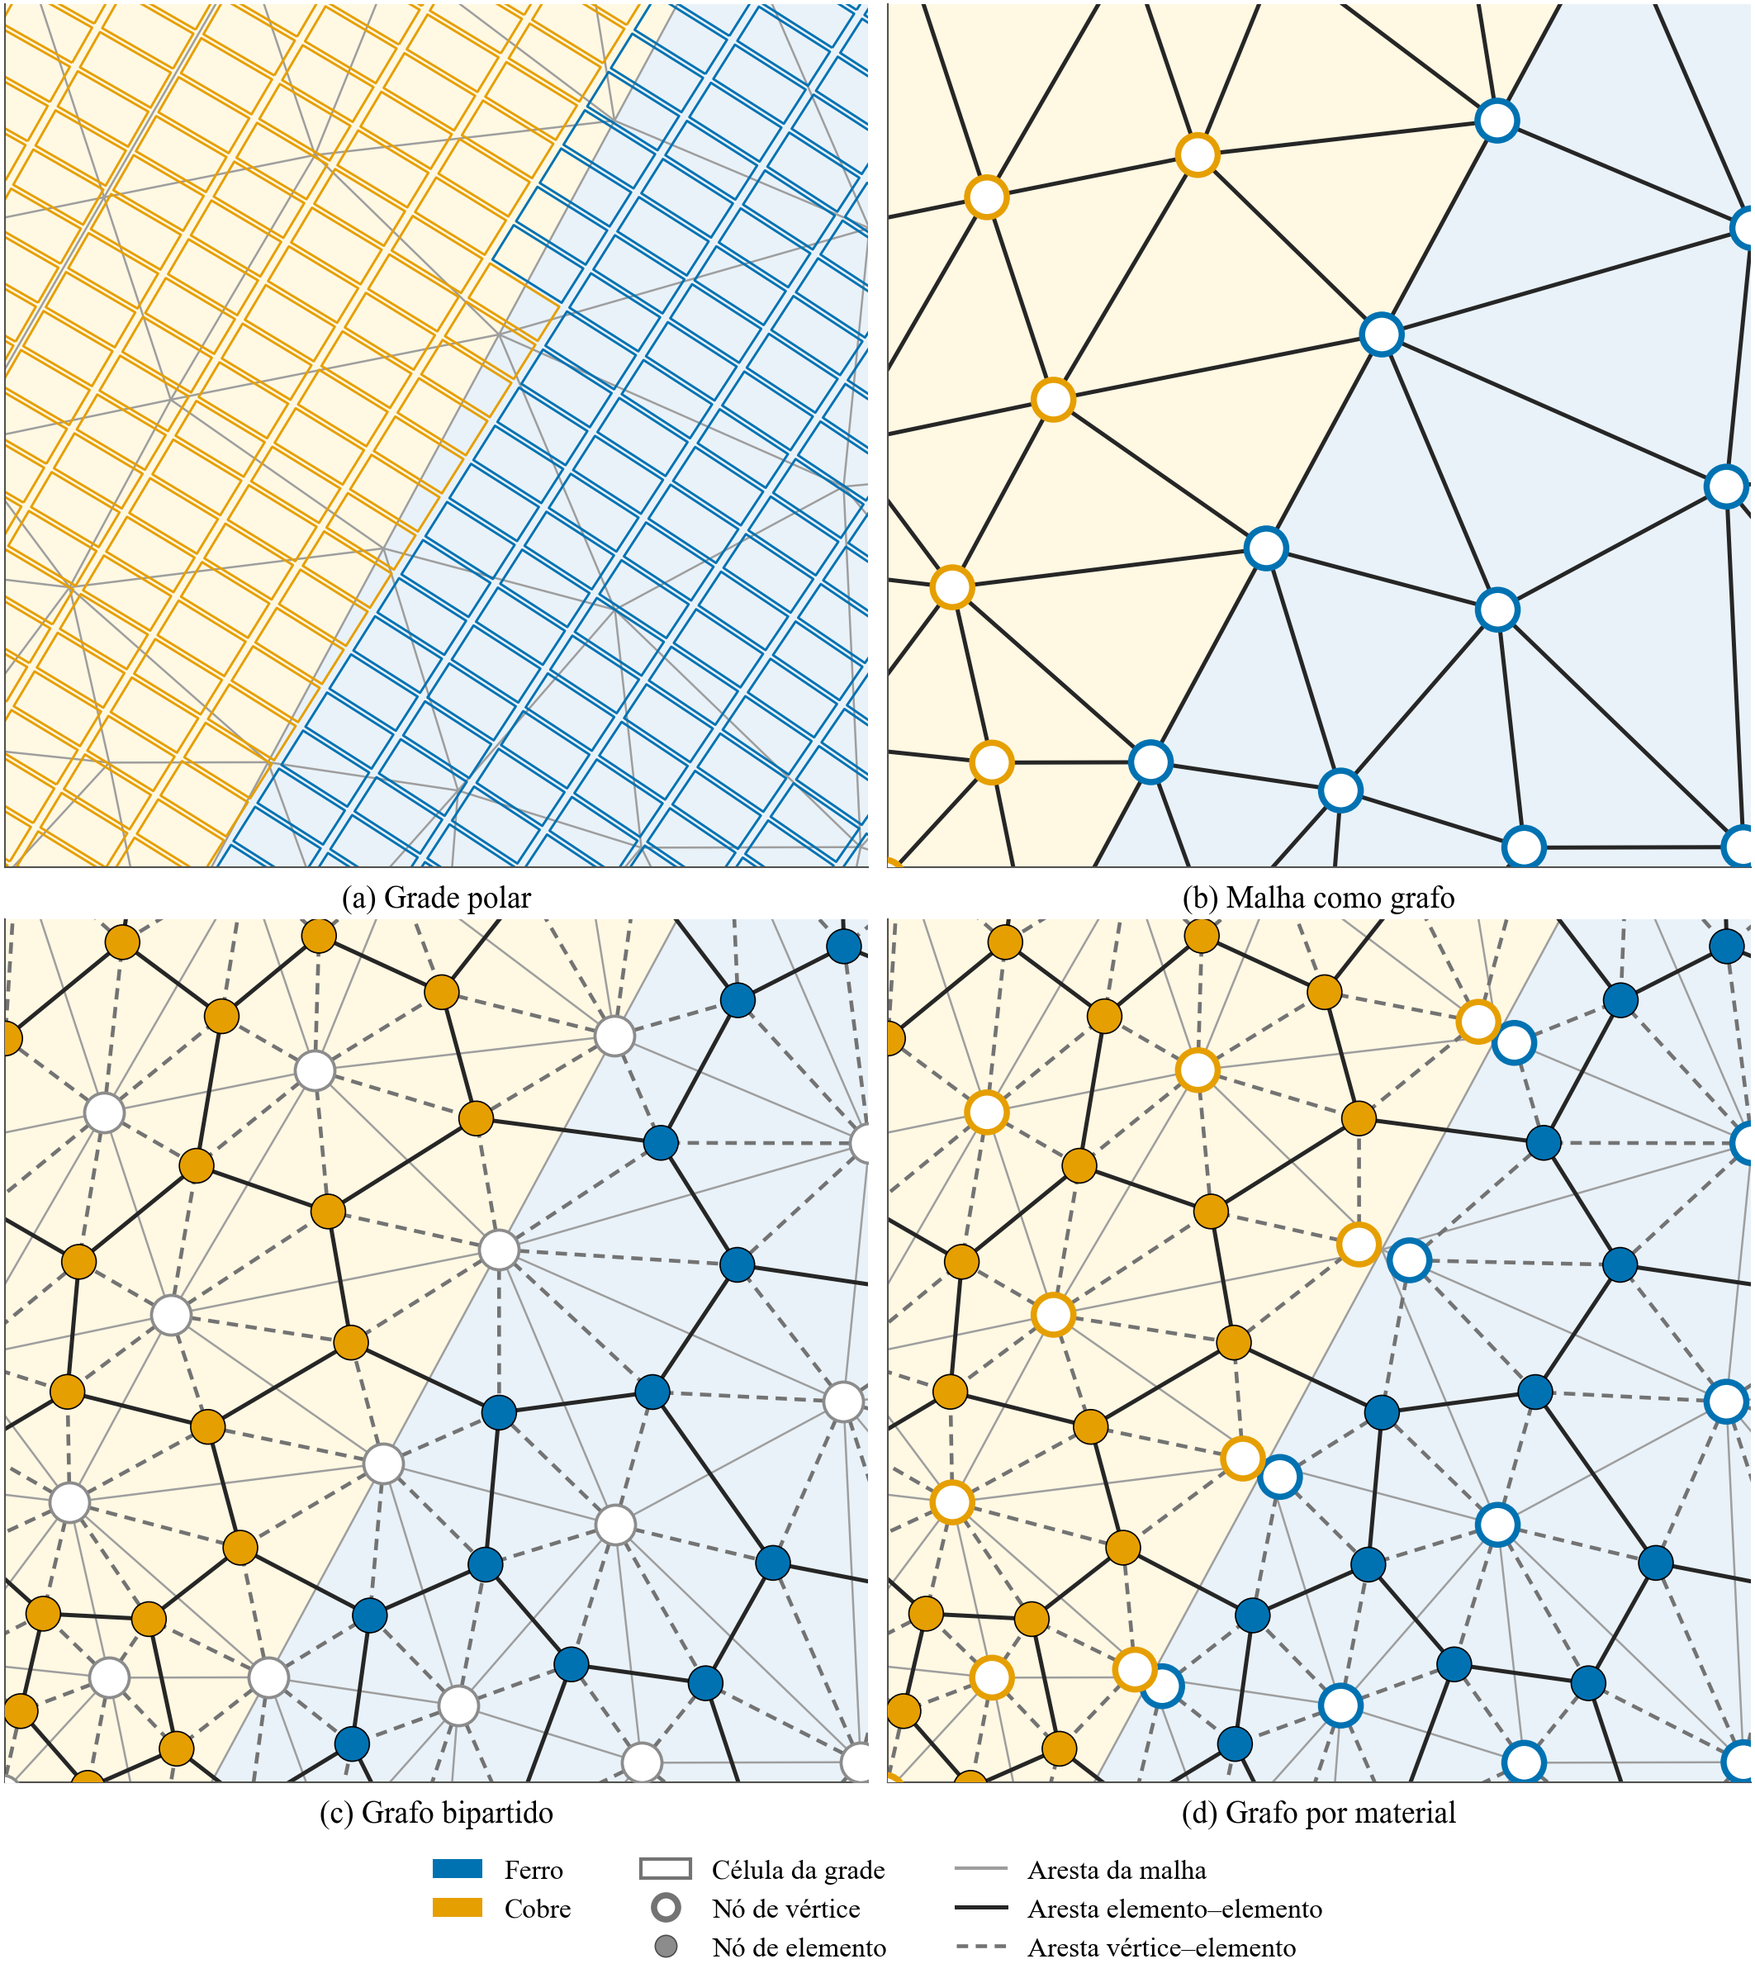
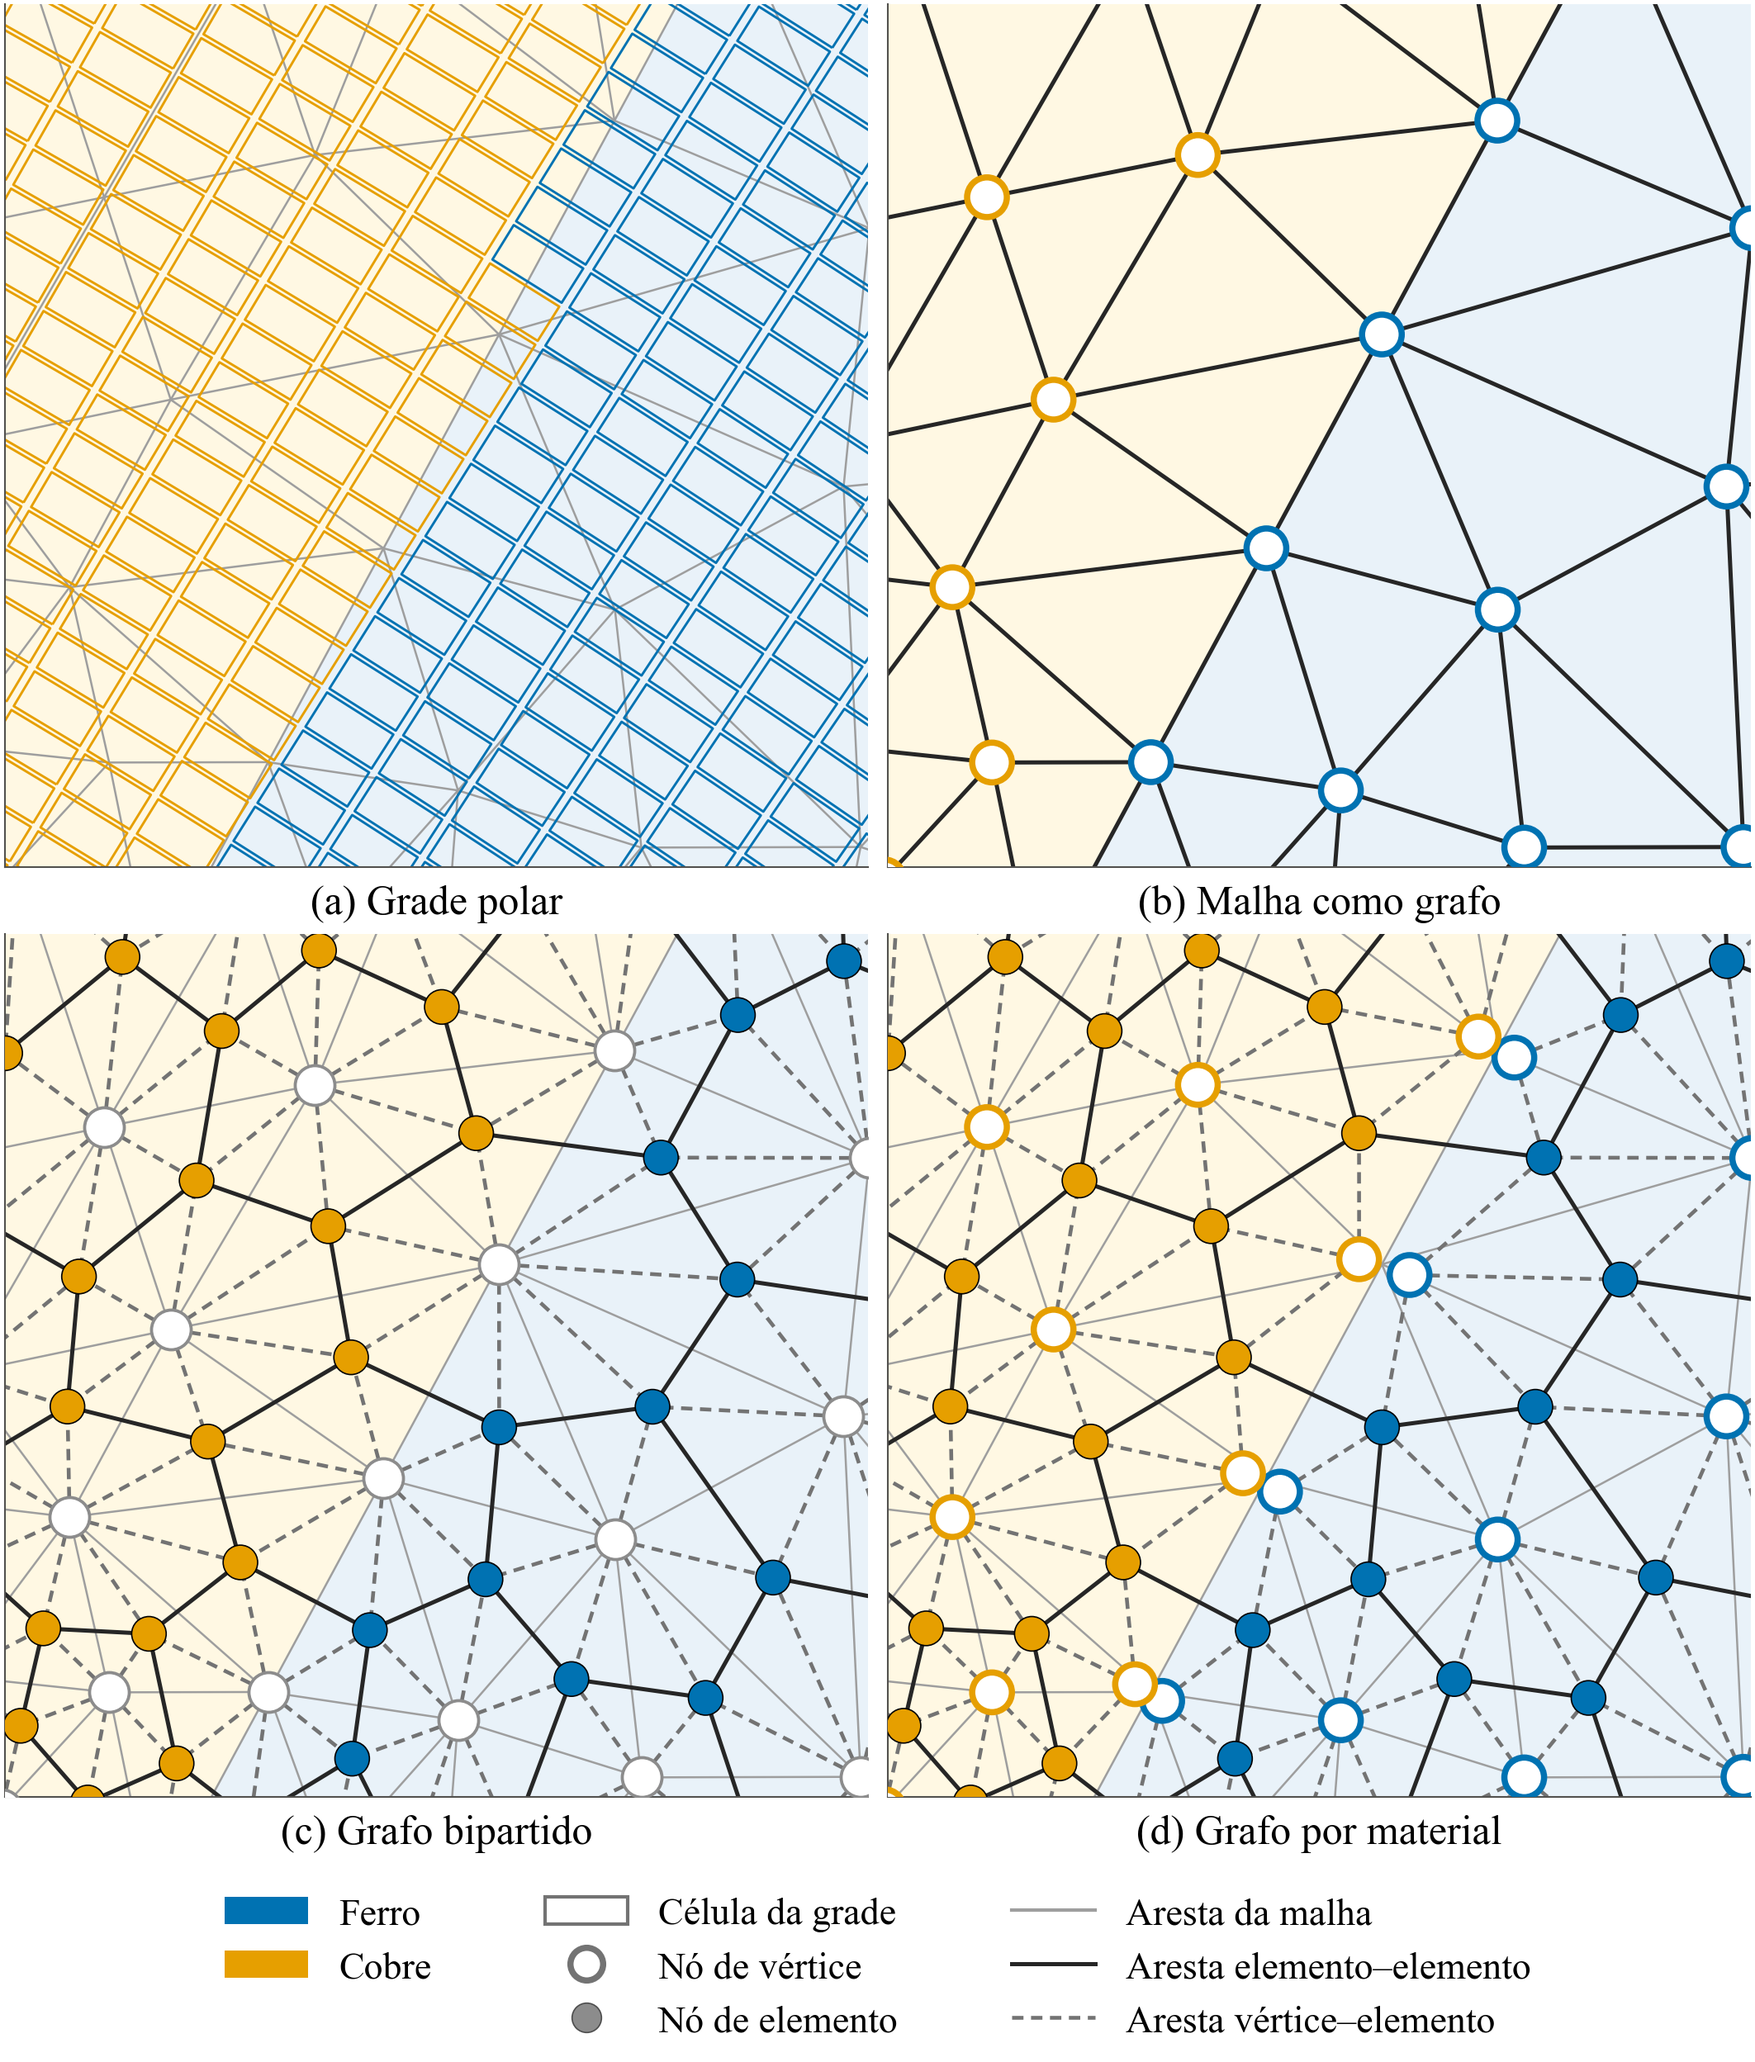
fig_representacoes: rótulos 12 pt e legenda 11 pt (figura escalada por 0,6 no artigo)

diff --git a/scripts/fig_representacoes.py b/scripts/fig_representacoes.py
@@ -121,7 +121,9 @@ RING_LW, RING_LW_NEUTRAL, DISC_EDGE_LW = 1.8, 0.9, 0.4
 # [REMOVIDO] TITLES = ('Grade', 'Grafo de vértices', 'Elementos + vértices', 'Elementos + vértices por material')
 # [REMOVIDO] TITLES = ('Grade', 'Grafo de vértices', 'Elementos e vértices', 'Elementos e vértices por material')
 TITLES = ('Grade polar', 'Malha como grafo', 'Grafo bipartido', 'Grafo por material')
-CAPTION_PT = 9                    # rótulo (a)–(d) abaixo de cada painel
+# [REMOVIDO] CAPTION_PT = 9  -- a figura entra no artigo escalada por 0,6 (9 pt -> 5,4 pt)
+CAPTION_PT = 12                   # rótulo (a)–(d) abaixo de cada painel (×0,6 ≈ 7,2 pt)
+LEGEND_PT = 11                    # legenda (×0,6 ≈ 6,6 pt)
 TITLE_PT = 10.5                   # títulos dos painéis maiores que os rótulos (a)–(d) (8 pt)
 ARCH_OF_PANEL = ('FNO2d', 'FNO_GNN', 'FNO_Bipartite', 'FNO_SplitGNN')
 
@@ -347,10 +349,11 @@ def render(F, layout='2x2', titles=True, out_dir=ARTICLE_FIG_DIR, name=None):
     # [REMOVIDO] gap, h_t, h_leg = 0.08, (0.16 if titles else 0.02), 0.62  (legenda com 3 linhas)
     # [REMOVIDO] h_leg = 0.80 (legenda de 4 linhas)
     # [REMOVIDO] gap, h_t, h_leg = 0.08, (0.16 if titles else 0.02), 0.60  (título 8 pt)
-    gap, h_t, h_leg = 0.08, (0.30 if titles else 0.02), 0.60
+    # [REMOVIDO] h_leg = 0.60 (legenda em 8 pt)
+    gap, h_t, h_leg = 0.08, (0.30 if titles else 0.02), 0.82
     pw = (FIG_WIDTH_IN - (nc - 1) * gap - 0.04) / nc
     ph = pw * (box[3] - box[2]) / side
-    h_lab = 0.19                                               # rótulo (a)–(d) abaixo
+    h_lab = 0.25                                               # rótulo (a)–(d) abaixo
     H = nr * (h_t + ph + h_lab) + h_leg
     # tamanho dos marcadores proporcional à malha local (pt por mm)
     pt_mm = pw * 72 / side
@@ -484,7 +487,7 @@ def render(F, layout='2x2', titles=True, out_dir=ARTICLE_FIG_DIR, name=None):
         present = [k for k in CLS_ORDER if CLASSES[k][0] in F['materiais']]
         blank = Patch(fc='none', ec='none', label=' ')
         c1 = [Patch(fc=CLASSES[k][1], ec='none', label=CLASSES[k][0]) for k in present]
-        ms_l = 7.0
+        ms_l = 9.5
         c2 = [Patch(fc='none', ec='0.45', lw=1.0, label='Célula da grade'),
               Line2D([], [], ls='', marker='o', ms=ms_l, mfc='white', mec='0.45', mew=RING_LW,
                      label='Nó de vértice'),
@@ -497,7 +500,7 @@ def render(F, layout='2x2', titles=True, out_dir=ARTICLE_FIG_DIR, name=None):
         n = max(len(c1), len(c2), len(c3))
         pad = lambda c: c + [blank] * (n - len(c))
         fig.legend(handles=pad(c1) + pad(c2) + pad(c3), loc='lower center', ncol=3, frameon=False,
-                   bbox_to_anchor=(0.5, 0.0), handlelength=1.8, columnspacing=2.5,
+                   bbox_to_anchor=(0.5, 0.0), handlelength=2.2, columnspacing=3.0, fontsize=LEGEND_PT,
                    borderaxespad=0.2)
         out_dir.mkdir(parents=True, exist_ok=True)
         fig.savefig(out_dir / f'{name}.pdf')
